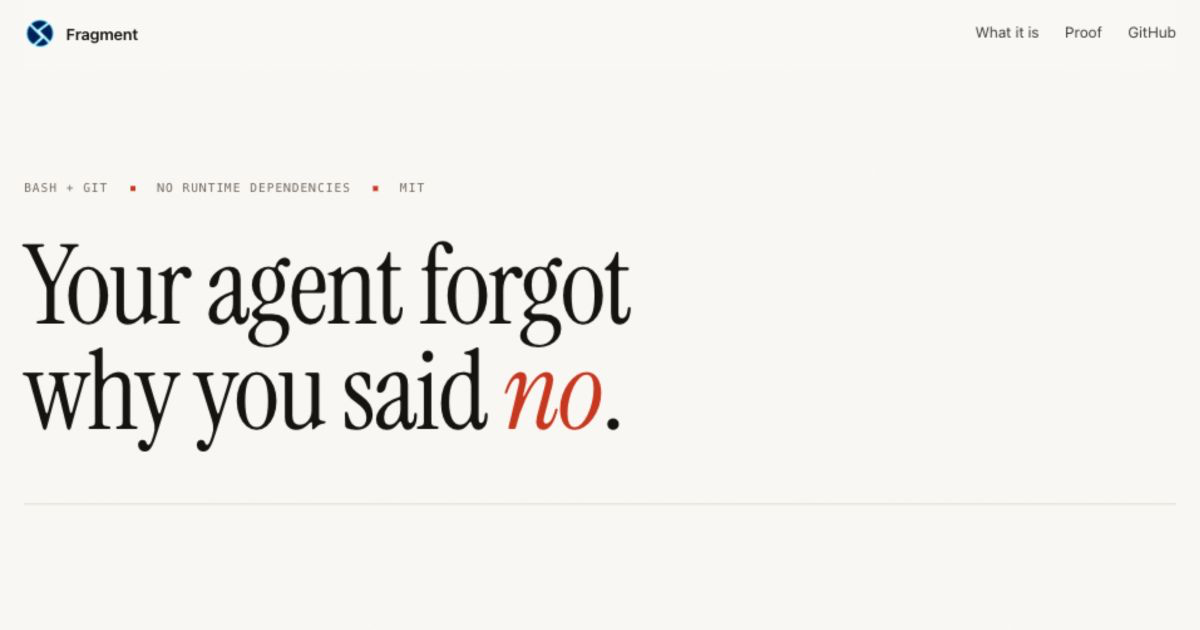
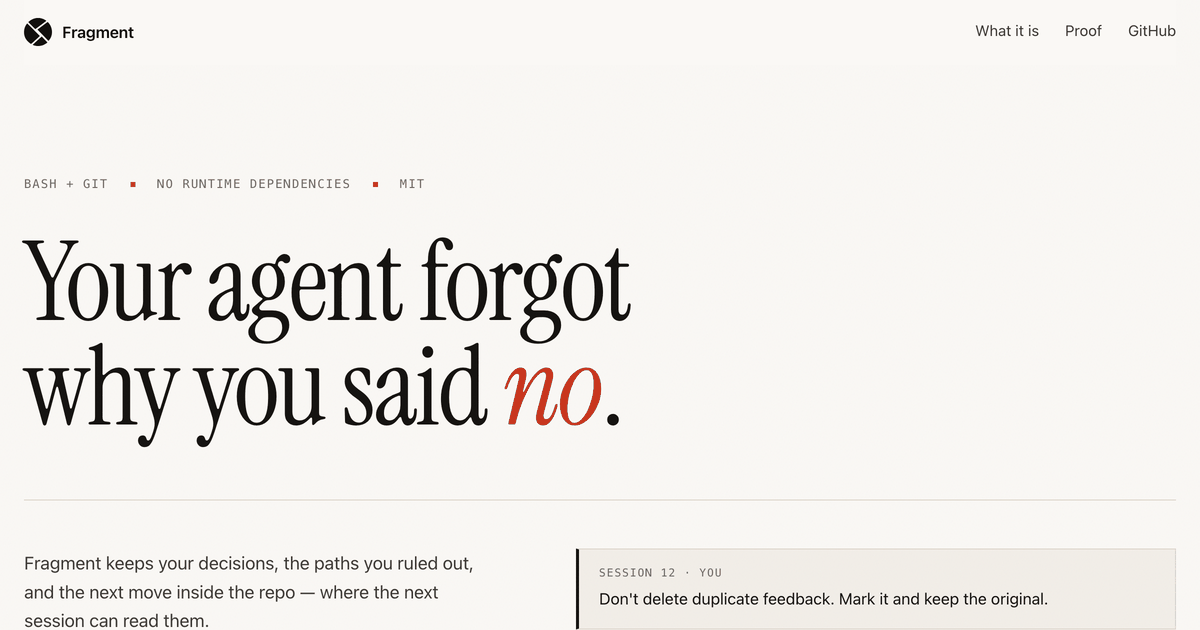
feat(site): a mark that inherits the palette, and Lenis for the scroll
The logo was left over from a direction the site had already abandoned: the
stylesheet's own comment says this design deliberately moved away from
"near-black + neon cyan", but the mark stayed navy #001850 with a cyan glow on
warm paper. It was the only cold, saturated thing on the page, and the glow
dissolved into a smudge at 20-32px, which is where a favicon actually lives.

The shape is unchanged -- it was traced from the original raster, not redrawn.
What changed is that it now carries no colour of its own: an inline SVG using
currentColor, so it inherits the ink and cannot drift from the palette again.
Ships favicon.svg (light/dark aware), a 32px PNG, an apple-touch icon, and a
light/dark pair for the README. The 475KB navy raster is gone; the whole asset
set is now about a tenth of its size.

Lenis 1.3.26 (MIT) is vendored rather than pulled from a CDN -- the page prints
"no runtime dependencies" in its own eyebrow, so it should not add a third-party
request just to smooth the scroll. Three ways it fails safely:

  - prefers-reduced-motion disables it outright
  - if the script never loads, html:not(.lenis) restores the browser's own
    scroll-behavior: smooth
  - it drives real scroll position, so window.scrollY, IntersectionObserver and
    anchor links all keep working

Verified in-browser: html.lenis active, no console errors, an anchor click
animates 902 -> 1768 -> 2438 instead of jumping, and the computed
[…]

diff --git a/site/index.html b/site/index.html
@@ -18,7 +18,9 @@
     <meta name="twitter:title" content="Fragment — Durable Project Memory for AI Coding Agents">
     <meta name="twitter:description" content="Your agent forgot why you said no. Fragment keeps the decision in the repo.">
     <meta name="twitter:image" content="https://hematenergi.github.io/fragment/assets/og.png">
-    <link rel="icon" href="assets/fragment-logo.png">
+    <link rel="icon" href="assets/favicon.svg" type="image/svg+xml">
+    <link rel="icon" href="assets/favicon-32.png" sizes="32x32">
+    <link rel="apple-touch-icon" href="assets/apple-touch-icon.png">
     <link rel="preconnect" href="https://fonts.googleapis.com">
     <link rel="preconnect" href="https://fonts.gstatic.com" crossorigin>
     <link rel="stylesheet" href="https://fonts.googleapis.com/css2?family=Instrument+Serif:ital@0;1&display=swap">
@@ -36,6 +38,7 @@
         "version": "0.1.0"
       }
     </script>
+    <script src="vendor/lenis.min.js" defer></script>
     <script src="script.js" defer></script>
   </head>
   <body>
@@ -43,7 +46,7 @@
 
     <header class="site-header" data-header>
       <a class="brand" href="#top" aria-label="Fragment home">
-        <img src="assets/fragment-logo.png" alt="" width="32" height="32">
+        <svg class="mark" viewBox="0 0 64 64" width="28" height="28" fill="currentColor" aria-hidden="true"><path d="M7.2,12.7 7.56,12.7 7.8,12.82 8.77,13.79 8.89,13.79 9.13,14.03 9.13,14.16 9.86,14.88 9.98,14.88 10.22,15.12 10.22,15.24 10.71,15.73 10.83,15.73 11.31,16.21 11.31,16.33 11.67,16.7 11.8,16.7 12.4,17.3 12.4,17.42 12.64,17.66 12.76,17.66 13.37,18.27 13.37,18.39 13.61,18.63 13.73,18.63 35.99,40.89 36.11,41.13 35.99,41.5 35.39,42.1 35.27,42.1 34.18,43.19 34.06,43.19 33.45,43.8 33.33,43.8 32.85,44.28 32.85,44.4 32.73,44.4 32.24,44.88 32.12,44.88 31.76,45.37 31.64,45.37 30.55,46.46 30.43,46.46 29.34,47.55 29.22,47.55 28.73,48.15 28.61,48.15 27.52,49.24 27.4,49.24 26.31,50.33 26.19,50.33 21.72,54.56 21.6,54.56 20.75,55.41 20.63,55.41 17.72,58.07 17.6,58.07 16.27,59.16 15.55,59.04 15.18,58.68 15.06,58.68 14.82,58.43 14.58,58.43 13.01,57.22 12.64,57.1 11.92,56.38 11.43,56.14 8.17,52.99 8.17,52.87 6.47,51.05 6.35,50.69 5.87,50.21 5.63,49.72 4.42,48.15 4.29,47.67 3.45,46.46 3.33,45.97 2.36,44.16 2.24,43.55 2,43.19 2,42.95 1.88,42.83 1.88,42.59 1.75,42.47 1.75,42.22 1.63,42.1 1.63,41.86 1.27,41.01 1.15,40.17 1.03,40.05 0.91,39.32 0.79,39.2 0.79,38.71 0.54,38.23 0.54,37.63 0.42,37.5 0.42,36.54 0.3,36.42 0.3,34.96 0.18,34.84 0.18,32.91 0.06,32.79 0.06,32.06 0.18,31.94 0.18,29.76 0.3,29.64 0.3,28.07 0.42,27.95 0.42,26.98 0.54,26.86 0.54,26.37 0.67,26.25 0.67,25.89 0.79,25.77 0.91,24.8 1.15,24.32 1.15,23.95 1.27,23.83 1.27,23.47 1.39,23.35 1.39,22.99 1.51,22.87 1.75,21.9 2,21.53 2,21.29 2.36,20.57 2.48,19.96 2.72,19.72 2.72,19.48 3.33,18.51 3.45,17.91 3.69,17.66 4.05,16.82 4.29,16.57 4.42,16.09 4.9,15.61 5.75,14.28 7.2,12.7Z"/><path d="M53.9,9.07 54.26,9.07 55.71,10.53 55.71,10.65 56.56,11.49 56.56,11.61 57.04,12.1 57.04,12.22 57.65,12.82 58.01,13.55 58.62,14.16 58.74,14.64 59.34,15.36 59.46,15.73 59.83,16.21 59.95,16.7 60.31,17.06 60.43,17.54 60.79,18.03 60.79,18.27 61.4,19.36 61.4,19.6 61.64,19.96 61.64,20.2 62,20.93 62.12,21.53 62.37,21.9 62.37,22.26 62.73,23.11 62.73,23.59 62.85,23.71 62.97,24.44 63.21,24.92 63.21,25.41 63.33,25.53 63.46,26.5 63.58,26.62 63.7,28.43 63.82,28.55 63.82,29.76 63.94,29.88 63.94,34.36 63.82,34.48 63.82,35.69 63.7,35.81 63.58,37.63 63.46,37.75 63.46,38.23 63.33,38.35 63.21,39.2 62.97,39.68 62.97,40.05 62.73,40.53 62.73,40.89 62.61,41.01 62.25,42.34 61.88,42.95 61.64,43.92 60.43,46.34 59.95,46.94 59.71,47.55 58.86,48.64 58.62,49.24 57.04,51.05 57.04,51.18 56.68,51.54 56.56,51.54 56.2,51.9 56.2,52.02 55.71,52.02 55.35,51.66 55.23,51.66 53.66,50.09 53.66,49.97 53.29,49.6 53.17,49.6 52.08,48.39 51.96,48.39 51.96,48.27 50.87,47.18 50.87,47.06 50.03,46.34 50.03,46.22 43.98,40.05 43.98,39.92 43.74,39.68 43.61,39.68 43.01,39.08 43.01,38.96 42.04,38.11 42.04,37.99 40.11,36.05 40.11,35.93 39.86,35.69 39.74,35.69 39.14,35.09 39.14,34.96 38.41,34.24 38.29,34.24 38.17,34 34.06,29.88 34.06,29.76 33.81,29.64 33.09,28.91 33.09,28.79 32.85,28.67 32.12,27.95 32.12,27.83 31.88,27.71 31.15,26.98 30.91,26.5 31.03,26.25 31.4,25.89 31.88,25.65 32.36,25.04 33.33,24.56 33.81,24.08 34.78,23.47 35.39,22.87 35.75,22.74 36.48,22.02 37.2,21.66 37.69,21.17 38.65,20.57 39.26,19.96 39.62,19.84 40.35,19.12 41.07,18.75 42.04,17.91 42.53,17.66 43.13,17.06 43.61,16.82 44.22,16.21 44.95,15.85 45.43,15.36 45.55,15.36 45.91,15 46.52,14.64 47.12,14.03 47.49,13.91 48.09,13.31 48.82,12.95 49.91,11.98 50.39,11.74 50.99,11.13 51.72,10.77 52.08,10.4 52.08,10.28 52.81,9.92 53.9,9.07Z"/><path d="M29.58,0 35.27,0 35.39,0.12 36.6,0.12 36.72,0.24 37.32,0.24 37.44,0.36 37.81,0.36 37.93,0.48 38.29,0.48 38.41,0.6 38.78,0.6 38.9,0.73 39.26,0.73 39.38,0.85 40.35,0.97 40.47,1.09 40.83,1.09 41.32,1.33 41.68,1.33 42.28,1.69 42.53,1.69 43.37,2.06 43.74,2.06 43.98,2.3 44.46,2.42 44.95,2.66 45.19,2.9 45.79,3.02 46.52,3.39 47.12,3.87 47.61,3.99 48.94,4.96 49.54,5.2 50.75,6.29 50.75,6.65 50.63,6.9 50.51,6.9 49.78,7.62 49.18,7.98 48.7,8.47 48.21,8.71 47.73,9.19 47.24,9.44 42.89,12.82 42.53,12.95 41.8,13.67 41.68,13.67 40.47,14.64 39.98,14.88 39.5,15.36 39.38,15.36 36.6,17.54 36.11,17.78 35.63,18.27 35.15,18.51 33.69,19.72 33.33,19.84 32.73,20.45 32,20.81 29.7,22.62 29.34,22.74 28.61,23.47 28.25,23.59 26.07,25.16 25.59,25.16 24.02,23.59 23.89,23.59 23.29,22.99 23.29,22.87 23.05,22.62 22.93,22.62 22.56,22.26 22.56,22.14 21.96,21.53 21.84,21.53 21.35,21.05 21.35,20.93 20.99,20.57 20.87,20.57 20.39,20.08 20.39,19.96 20.02,19.6 19.9,19.6 19.3,18.99 19.3,18.87 18.81,18.39 18.69,18.39 18.33,18.03 18.33,17.91 17.84,17.42 17.72,17.42 17.36,17.06 17.36,16.94 17,16.57 16.88,16.57 16.27,15.97 16.27,15.85 16.03,15.73 10.34,10.04 10.34,9.92 9.98,9.56 9.98,9.32 10.1,9.07 10.83,8.35 10.95,8.35 12.4,7.02 12.88,6.78 13.49,6.17 14.22,5.81 15.06,5.08 15.67,4.84 16.39,4.23 17.12,3.99 18.33,3.15 18.93,3.02 20.51,2.18 20.75,2.18 20.87,2.06 21.11,2.06 21.23,1.94 22.93,1.45 23.29,1.21 23.65,1.21 23.77,1.09 24.14,1.09 24.26,0.97 24.74,0.97 24.86,0.85 25.71,0.73 25.83,0.6 26.56,0.48 26.68,0.36 27.28,0.36 27.4,0.24 28.01,0.24 28.13,0.12 29.46,0.12 29.58,0Z"/><path d="M40.35,42.47 40.59,42.47 40.83,42.71 40.95,42.71 42.4,44.16 42.4,44.28 43.25,45.01 43.25,45.13 44.95,46.82 44.95,46.94 45.55,47.55 45.67,47.55 45.91,47.79 45.91,47.91 53.29,55.29 53.41,55.77 52.69,56.62 52.57,56.62 52.08,57.1 51.96,57.1 51.48,57.59 51.36,57.59 50.75,58.19 50.39,58.31 50.15,58.56 50.03,58.56 49.06,59.28 48.45,59.52 47.85,60.01 46.52,60.61 46.03,60.98 45.79,60.98 45.19,61.34 44.34,61.58 43.49,62.06 43.25,62.06 42.89,62.31 42.04,62.43 41.56,62.67 41.19,62.67 40.47,63.03 39.98,63.03 39.86,63.15 39.38,63.15 39.26,63.27 38.78,63.27 38.65,63.4 38.05,63.4 37.93,63.52 37.2,63.52 37.08,63.64 36.6,63.64 36.48,63.76 35.75,63.76 35.63,63.88 34.3,63.88 34.18,64 30.06,64 29.94,63.88 28.85,63.88 28.73,63.76 28.01,63.76 27.89,63.64 27.28,63.64 27.16,63.52 25.71,63.4 25.59,63.27 24.62,63.15 23.77,62.79 23.41,62.79 22.68,62.43 22.32,62.43 22.2,62.31 21.6,62.19 21.11,61.82 20.51,61.58 20.14,61.22 20.26,60.73 20.51,60.49 20.63,60.49 21.35,59.64 21.47,59.64 23.65,57.59 23.77,57.59 24.5,56.74 24.86,56.62 25.59,55.77 26.07,55.53 26.8,54.68 27.28,54.44 30.31,51.54 30.43,51.54 32.6,49.48 32.73,49.48 33.33,48.76 33.45,48.76 34.54,47.67 34.66,47.67 35.27,47.06 35.27,46.94 35.75,46.7 36.48,45.85 36.96,45.61 37.57,44.88 37.69,44.88 38.29,44.28 38.41,44.28 40.35,42.47Z"/></svg>
         <span>Fragment</span>
       </a>
       <nav aria-label="Primary navigation">
@@ -191,7 +194,7 @@
 
     <footer>
       <a class="brand" href="#top" aria-label="Back to top">
-        <img src="assets/fragment-logo.png" alt="" width="28" height="28">
+        <svg class="mark" viewBox="0 0 64 64" width="24" height="24" fill="currentColor" aria-hidden="true"><path d="M7.2,12.7 7.56,12.7 7.8,12.82 8.77,13.79 8.89,13.79 9.13,14.03 9.13,14.16 9.86,14.88 9.98,14.88 10.22,15.12 10.22,15.24 10.71,15.73 10.83,15.73 11.31,16.21 11.31,16.33 11.67,16.7 11.8,16.7 12.4,17.3 12.4,17.42 12.64,17.66 12.76,17.66 13.37,18.27 13.37,18.39 13.61,18.63 13.73,18.63 35.99,40.89 36.11,41.13 35.99,41.5 35.39,42.1 35.27,42.1 34.18,43.19 34.06,43.19 33.45,43.8 33.33,43.8 32.85,44.28 32.85,44.4 32.73,44.4 32.24,44.88 32.12,44.88 31.76,45.37 31.64,45.37 30.55,46.46 30.43,46.46 29.34,47.55 29.22,47.55 28.73,48.15 28.61,48.15 27.52,49.24 27.4,49.24 26.31,50.33 26.19,50.33 21.72,54.56 21.6,54.56 20.75,55.41 20.63,55.41 17.72,58.07 17.6,58.07 16.27,59.16 15.55,59.04 15.18,58.68 15.06,58.68 14.82,58.43 14.58,58.43 13.01,57.22 12.64,57.1 11.92,56.38 11.43,56.14 8.17,52.99 8.17,52.87 6.47,51.05 6.35,50.69 5.87,50.21 5.63,49.72 4.42,48.15 4.29,47.67 3.45,46.46 3.33,45.97 2.36,44.16 2.24,43.55 2,43.19 2,42.95 1.88,42.83 1.88,42.59 1.75,42.47 1.75,42.22 1.63,42.1 1.63,41.86 1.27,41.01 1.15,40.17 1.03,40.05 0.91,39.32 0.79,39.2 0.79,38.71 0.54,38.23 0.54,37.63 0.42,37.5 0.42,36.54 0.3,36.42 0.3,34.96 0.18,34.84 0.18,32.91 0.06,32.79 0.06,32.06 0.18,31.94 0.18,29.76 0.3,29.64 0.3,28.07 0.42,27.95 0.42,26.98 0.54,26.86 0.54,26.37 0.67,26.25 0.67,25.89 0.79,25.77 0.91,24.8 1.15,24.32 1.15,23.95 1.27,23.83 1.27,23.47 1.39,23.35 1.39,22.99 1.51,22.87 1.75,21.9 2,21.53 2,21.29 2.36,20.57 2.48,19.96 2.72,19.72 2.72,19.48 3.33,18.51 3.45,17.91 3.69,17.66 4.05,16.82 4.29,16.57 4.42,16.09 4.9,15.61 5.75,14.28 7.2,12.7Z"/><path d="M53.9,9.07 54.26,9.07 55.71,10.53 55.71,10.65 56.56,11.49 56.56,11.61 57.04,12.1 57.04,12.22 57.65,12.82 58.01,13.55 58.62,14.16 58.74,14.64 59.34,15.36 59.46,15.73 59.83,16.21 59.95,16.7 60.31,17.06 60.43,17.54 60.79,18.03 60.79,18.27 61.4,19.36 61.4,19.6 61.64,19.96 61.64,20.2 62,20.93 62.12,21.53 62.37,21.9 62.37,22.26 62.73,23.11 62.73,23.59 62.85,23.71 62.97,24.44 63.21,24.92 63.21,25.41 63.33,25.53 63.46,26.5 63.58,26.62 63.7,28.43 63.82,28.55 63.82,29.76 63.94,29.88 63.94,34.36 63.82,34.48 63.82,35.69 63.7,35.81 63.58,37.63 63.46,37.75 63.46,38.23 63.33,38.35 63.21,39.2 62.97,39.68 62.97,40.05 62.73,40.53 62.73,40.89 62.61,41.01 62.25,42.34 61.88,42.95 61.64,43.92 60.43,46.34 59.95,46.94 59.71,47.55 58.86,48.64 58.62,49.24 57.04,51.05 57.04,51.18 56.68,51.54 56.56,51.54 56.2,51.9 56.2,52.02 55.71,52.02 55.35,51.66 55.23,51.66 53.66,50.09 53.66,49.97 53.29,49.6 53.17,49.6 52.08,48.39 51.96,48.39 51.96,48.27 50.87,47.18 50.87,47.06 50.03,46.34 50.03,46.22 43.98,40.05 43.98,39.92 43.74,39.68 43.61,39.68 43.01,39.08 43.01,38.96 42.04,38.11 42.04,37.99 40.11,36.05 40.11,35.93 39.86,35.69 39.74,35.69 39.14,35.09 39.14,34.96 38.41,34.24 38.29,34.24 38.17,34 34.06,29.88 34.06,29.76 33.81,29.64 33.09,28.91 33.09,28.79 32.85,28.67 32.12,27.95 32.12,27.83 31.88,27.71 31.15,26.98 30.91,26.5 31.03,26.25 31.4,25.89 31.88,25.65 32.36,25.04 33.33,24.56 33.81,24.08 34.78,23.47 35.39,22.87 35.75,22.74 36.48,22.02 37.2,21.66 37.69,21.17 38.65,20.57 39.26,19.96 39.62,19.84 40.35,19.12 41.07,18.75 42.04,17.91 42.53,17.66 43.13,17.06 43.61,16.82 44.22,16.21 44.95,15.85 45.43,15.36 45.55,15.36 45.91,15 46.52,14.64 47.12,14.03 47.49,13.91 48.09,13.31 48.82,12.95 49.91,11.98 50.39,11.74 50.99,11.13 51.72,10.77 52.08,10.4 52.08,10.28 52.81,9.92 53.9,9.07Z"/><path d="M29.58,0 35.27,0 35.39,0.12 36.6,0.12 36.72,0.24 37.32,0.24 37.44,0.36 37.81,0.36 37.93,0.48 38.29,0.48 38.41,0.6 38.78,0.6 38.9,0.73 39.26,0.73 39.38,0.85 40.35,0.97 40.47,1.09 40.83,1.09 41.32,1.33 41.68,1.33 42.28,1.69 42.53,1.69 43.37,2.06 43.74,2.06 43.98,2.3 44.46,2.42 44.95,2.66 45.19,2.9 45.79,3.02 46.52,3.39 47.12,3.87 47.61,3.99 48.94,4.96 49.54,5.2 50.75,6.29 50.75,6.65 50.63,6.9 50.51,6.9 49.78,7.62 49.18,7.98 48.7,8.47 48.21,8.71 47.73,9.19 47.24,9.44 42.89,12.82 42.53,12.95 41.8,13.67 41.68,13.67 40.47,14.64 39.98,14.88 39.5,15.36 39.38,15.36 36.6,17.54 36.11,17.78 35.63,18.27 35.15,18.51 33.69,19.72 33.33,19.84 32.73,20.45 32,20.81 29.7,22.62 29.34,22.74 28.61,23.47 28.25,23.59 26.07,25.16 25.59,25.16 24.02,23.59 23.89,23.59 23.29,22.99 23.29,22.87 23.05,22.62 22.93,22.62 22.56,22.26 22.56,22.14 21.96,21.53 21.84,21.53 21.35,21.05 21.35,20.93 20.99,20.57 20.87,20.57 20.39,20.08 20.39,19.96 20.02,19.6 19.9,19.6 19.3,18.99 19.3,18.87 18.81,18.39 18.69,18.39 18.33,18.03 18.33,17.91 17.84,17.42 17.72,17.42 17.36,17.06 17.36,16.94 17,16.57 16.88,16.57 16.27,15.97 16.27,15.85 16.03,15.73 10.34,10.04 10.34,9.92 9.98,9.56 9.98,9.32 10.1,9.07 10.83,8.35 10.95,8.35 12.4,7.02 12.88,6.78 13.49,6.17 14.22,5.81 15.06,5.08 15.67,4.84 16.39,4.23 17.12,3.99 18.33,3.15 18.93,3.02 20.51,2.18 20.75,2.18 20.87,2.06 21.11,2.06 21.23,1.94 22.93,1.45 23.29,1.21 23.65,1.21 23.77,1.09 24.14,1.09 24.26,0.97 24.74,0.97 24.86,0.85 25.71,0.73 25.83,0.6 26.56,0.48 26.68,0.36 27.28,0.36 27.4,0.24 28.01,0.24 28.13,0.12 29.46,0.12 29.58,0Z"/><path d="M40.35,42.47 40.59,42.47 40.83,42.71 40.95,42.71 42.4,44.16 42.4,44.28 43.25,45.01 43.25,45.13 44.95,46.82 44.95,46.94 45.55,47.55 45.67,47.55 45.91,47.79 45.91,47.91 53.29,55.29 53.41,55.77 52.69,56.62 52.57,56.62 52.08,57.1 51.96,57.1 51.48,57.59 51.36,57.59 50.75,58.19 50.39,58.31 50.15,58.56 50.03,58.56 49.06,59.28 48.45,59.52 47.85,60.01 46.52,60.61 46.03,60.98 45.79,60.98 45.19,61.34 44.34,61.58 43.49,62.06 43.25,62.06 42.89,62.31 42.04,62.43 41.56,62.67 41.19,62.67 40.47,63.03 39.98,63.03 39.86,63.15 39.38,63.15 39.26,63.27 38.78,63.27 38.65,63.4 38.05,63.4 37.93,63.52 37.2,63.52 37.08,63.64 36.6,63.64 36.48,63.76 35.75,63.76 35.63,63.88 34.3,63.88 34.18,64 30.06,64 29.94,63.88 28.85,63.88 28.73,63.76 28.01,63.76 27.89,63.64 27.28,63.64 27.16,63.52 25.71,63.4 25.59,63.27 24.62,63.15 23.77,62.79 23.41,62.79 22.68,62.43 22.32,62.43 22.2,62.31 21.6,62.19 21.11,61.82 20.51,61.58 20.14,61.22 20.26,60.73 20.51,60.49 20.63,60.49 21.35,59.64 21.47,59.64 23.65,57.59 23.77,57.59 24.5,56.74 24.86,56.62 25.59,55.77 26.07,55.53 26.8,54.68 27.28,54.44 30.31,51.54 30.43,51.54 32.6,49.48 32.73,49.48 33.33,48.76 33.45,48.76 34.54,47.67 34.66,47.67 35.27,47.06 35.27,46.94 35.75,46.7 36.48,45.85 36.96,45.61 37.57,44.88 37.69,44.88 38.29,44.28 38.41,44.28 40.35,42.47Z"/></svg>
         <span>Fragment</span>
       </a>
       <p>

diff --git a/site/script.js b/site/script.js
@@ -41,6 +41,57 @@ copyButtons.forEach((button) => {
   });
 });
 
+const prefersReducedMotion = matchMedia("(prefers-reduced-motion: reduce)").matches;
+
+// Lenis.
+//
+// Dimuat dari `vendor/`, bukan CDN: halaman ini mengklaim "no runtime
+// dependencies", jadi paling tidak ia tidak boleh menambah permintaan ke pihak
+// ketiga hanya demi gulir yang halus.
+//
+// Tiga hal yang membuatnya aman untuk gagal:
+//   1. `prefers-reduced-motion` mematikannya sepenuhnya. Gulir yang diperhalus
+//      adalah gerakan, dan sebagian orang sakit karenanya.
+//   2. Kalau skripnya tidak termuat, `globalThis.Lenis` tidak ada dan halaman
+//      tetap bergulir seperti biasa — `html:not(.lenis)` mengembalikan
+//      `scroll-behavior: smooth` bawaan peramban.
+//   3. Ia memakai posisi gulir asli, jadi `window.scrollY`,
+//      IntersectionObserver, dan tautan jangkar tetap bekerja.
+let lenis = null;
+
+if (!prefersReducedMotion && typeof globalThis.Lenis === "function") {
+  lenis = new globalThis.Lenis({
+    duration: 1.05,
+    // Peluruhan eksponensial: cepat di awal, berhenti tanpa pantulan. Halaman
+    // ini bersifat editorial, bukan showreel — geraknya harus tidak terasa.
+    easing: (t) => 1 - Math.pow(1 - t, 3),
+    smoothWheel: true,
+    // Sentuhan dibiarkan asli. Momentum bawaan iOS sudah benar, dan
+    // menggantinya selalu terasa lebih buruk di perangkat sungguhan.
+    syncTouch: false,
+  });
+
+  const raf = (time) => {
+    lenis.raf(time);
+    requestAnimationFrame(raf);
+  };
+  requestAnimationFrame(raf);
+
+  // Tautan dalam-halaman harus melewati Lenis, kalau tidak peramban melompat
+  // dan Lenis menariknya kembali.
+  document.querySelectorAll('a[href^="#"]').forEach((link) => {
+    link.addEventListener("click", (event) => {
+      const id = link.getAttribute("href");
+      if (id === "#" || event.metaKey || event.ctrlKey || event.shiftKey) return;
+      const target = id === "#top" ? 0 : document.querySelector(id);
+      if (target === null) return;
+      event.preventDefault();
+      lenis.scrollTo(target, { offset: -24 });
+      history.pushState(null, "", id);
+    });
+  });
+}
+
 // Garis bawah header muncul hanya setelah halaman digulir, supaya bagian atas
 // tetap bersih. Dibaca lewat atribut, bukan mengubah gaya inline.
 const header = document.querySelector("[data-header]");
@@ -49,6 +100,9 @@ const syncHeader = () => {
 };
 syncHeader();
 addEventListener("scroll", syncHeader, { passive: true });
+// Lenis memancarkan peristiwanya sendiri; tanpa ini garis header tertinggal
+// satu bingkai di belakang gulir.
+if (lenis) lenis.on("scroll", syncHeader);
 
 // Reveal saat masuk viewport.
 //
@@ -56,7 +110,6 @@ addEventListener("scroll", syncHeader, { passive: true });
 // di sini, jadi kalau JS mati atau IntersectionObserver tidak ada, halaman
 // tetap tampil utuh. Menyembunyikan lebih dulu lewat CSS akan membuat konten
 // hilang permanen pada kegagalan sekecil apa pun.
-const prefersReducedMotion = matchMedia("(prefers-reduced-motion: reduce)").matches;
 
 if (!prefersReducedMotion && "IntersectionObserver" in window) {
   const targets = document.querySelectorAll(

diff --git a/site/styles.css b/site/styles.css
@@ -26,10 +26,21 @@
 * { box-sizing: border-box; }
 
 html {
-  scroll-behavior: smooth;
   background: var(--paper);
   -webkit-text-size-adjust: 100%;
 }
+
+/* Native smooth scrolling is kept ONLY for the case where Lenis never starts —
+   no JS, reduced motion, or a load failure. The two fight each other when both
+   are live, and the native one wins in a way that stutters. */
+html:not(.lenis) { scroll-behavior: smooth; }
+
+/* Lenis v1.3.26 base styles, inlined rather than loaded as a second file. */
+html.lenis,
+html.lenis body { height: auto; }
+.lenis:not(.lenis-autoToggle).lenis-stopped { overflow: clip; }
+.lenis [data-lenis-prevent] { overscroll-behavior: contain; }
+.lenis.lenis-smooth iframe { pointer-events: none; }
 
 body {
   margin: 0;
@@ -149,7 +160,13 @@ button, a { -webkit-tap-highlight-color: transparent; }
   font: 600 16px/1 var(--sans);
   letter-spacing: -.01em;
   text-decoration: none;
+  color: var(--ink);
 }
+
+/* The mark inherits the ink, so it is one colour with the wordmark and never
+   drifts from the palette the way a coloured raster asset does. */
+.brand .mark { display: block; flex: none; }
+.brand:hover .mark { color: var(--accent); }
 
 .site-header nav {
   display: flex;
